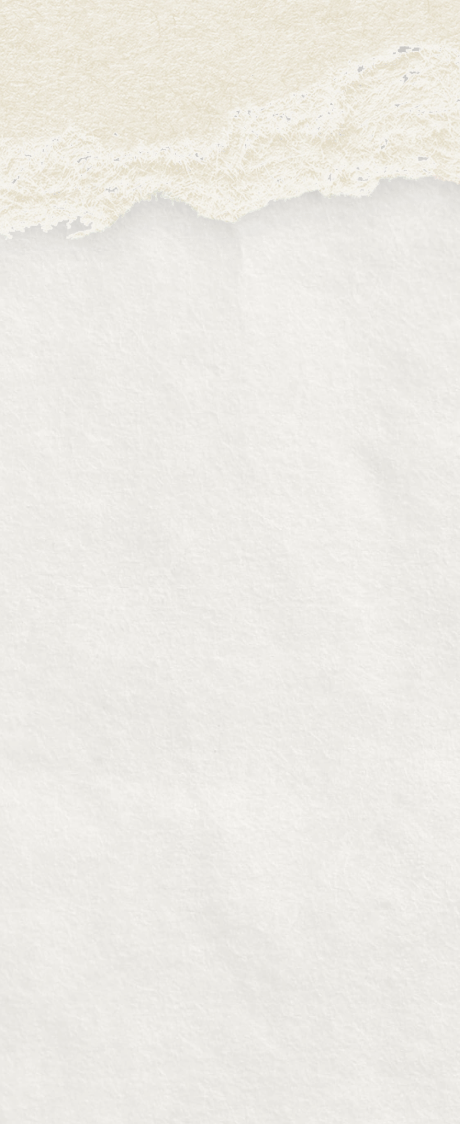
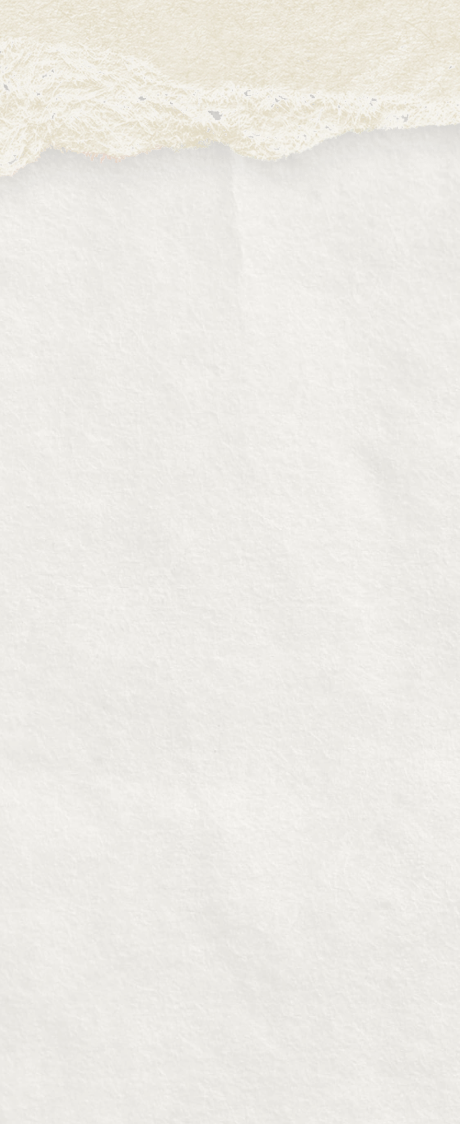
fix testimonial bg

diff --git a/src/pages/index.tsx b/src/pages/index.tsx
@@ -67,7 +67,7 @@ export const Home = () => {
         </Box>
         <Box
           backgroundImage={[
-            '/images/testimonial-test-mobile.png',
+            '/images/bg-testimonial-mobile.png',
             '/images/testimonials-test.png',
             '/images/testimonials-test.png'
           ]}
